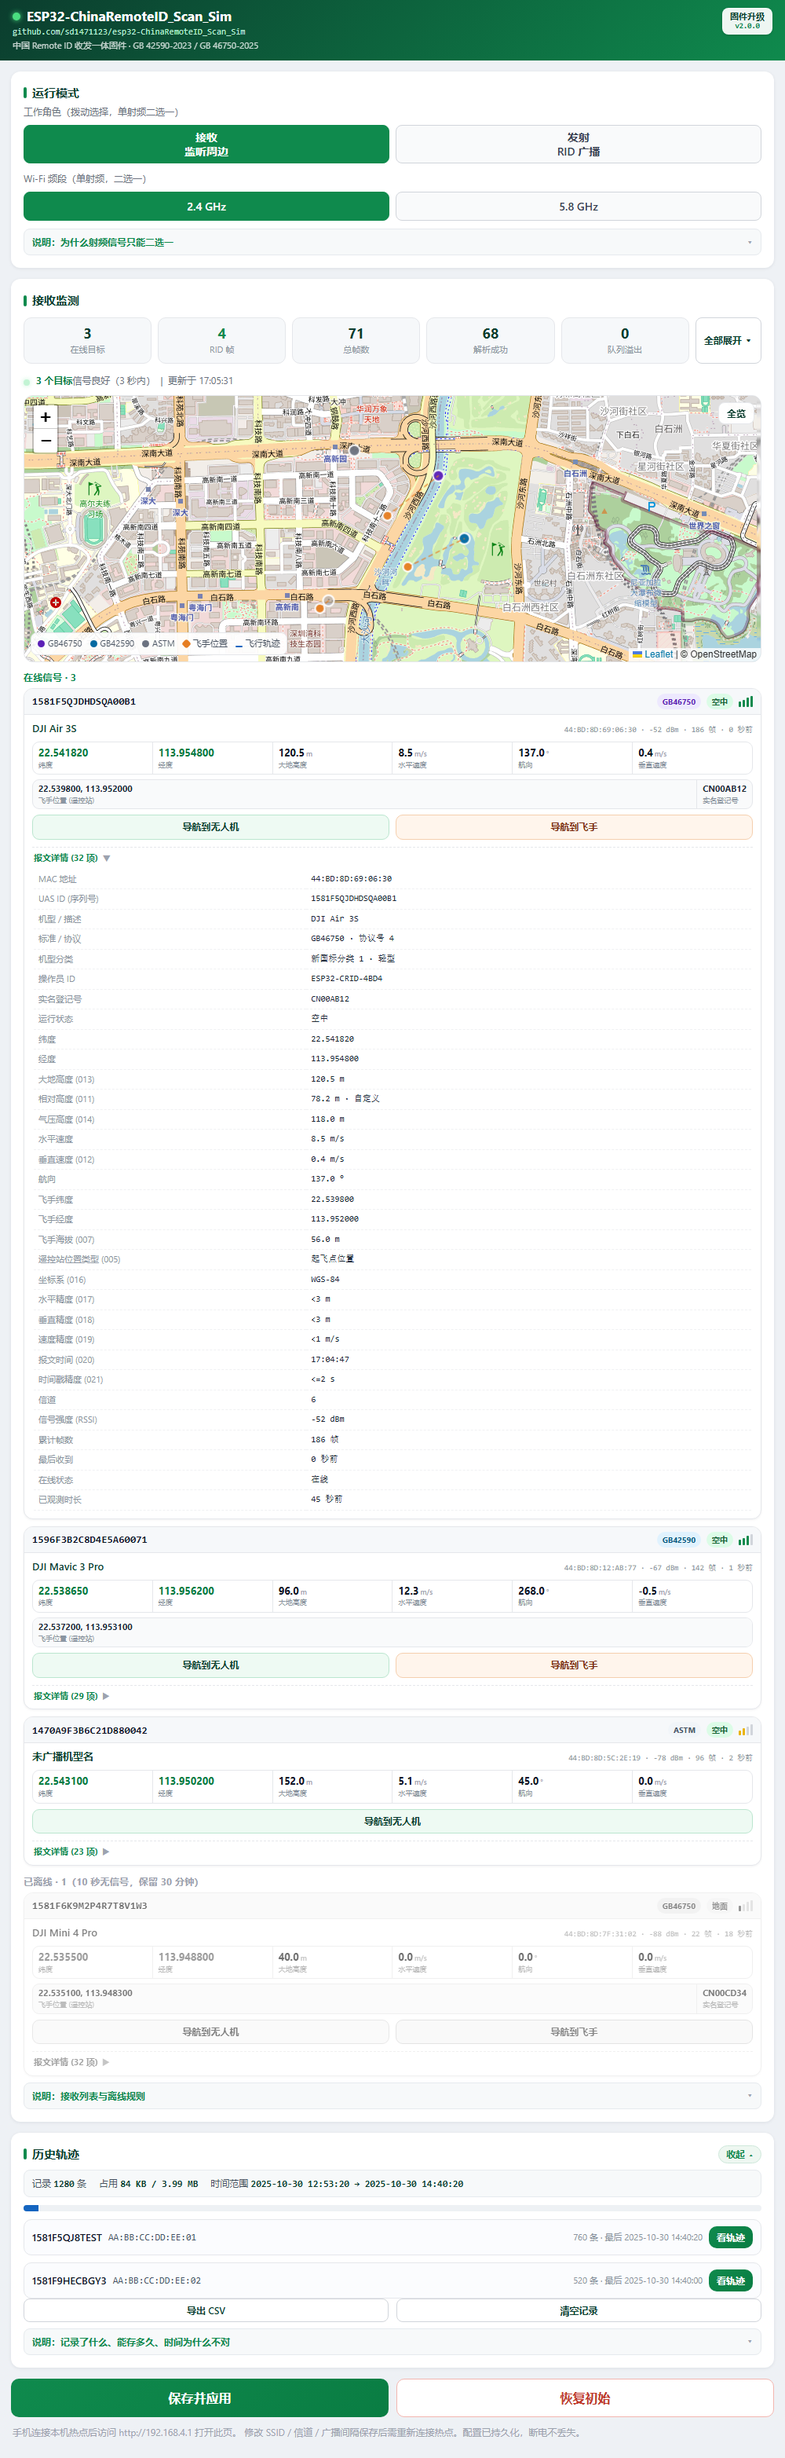
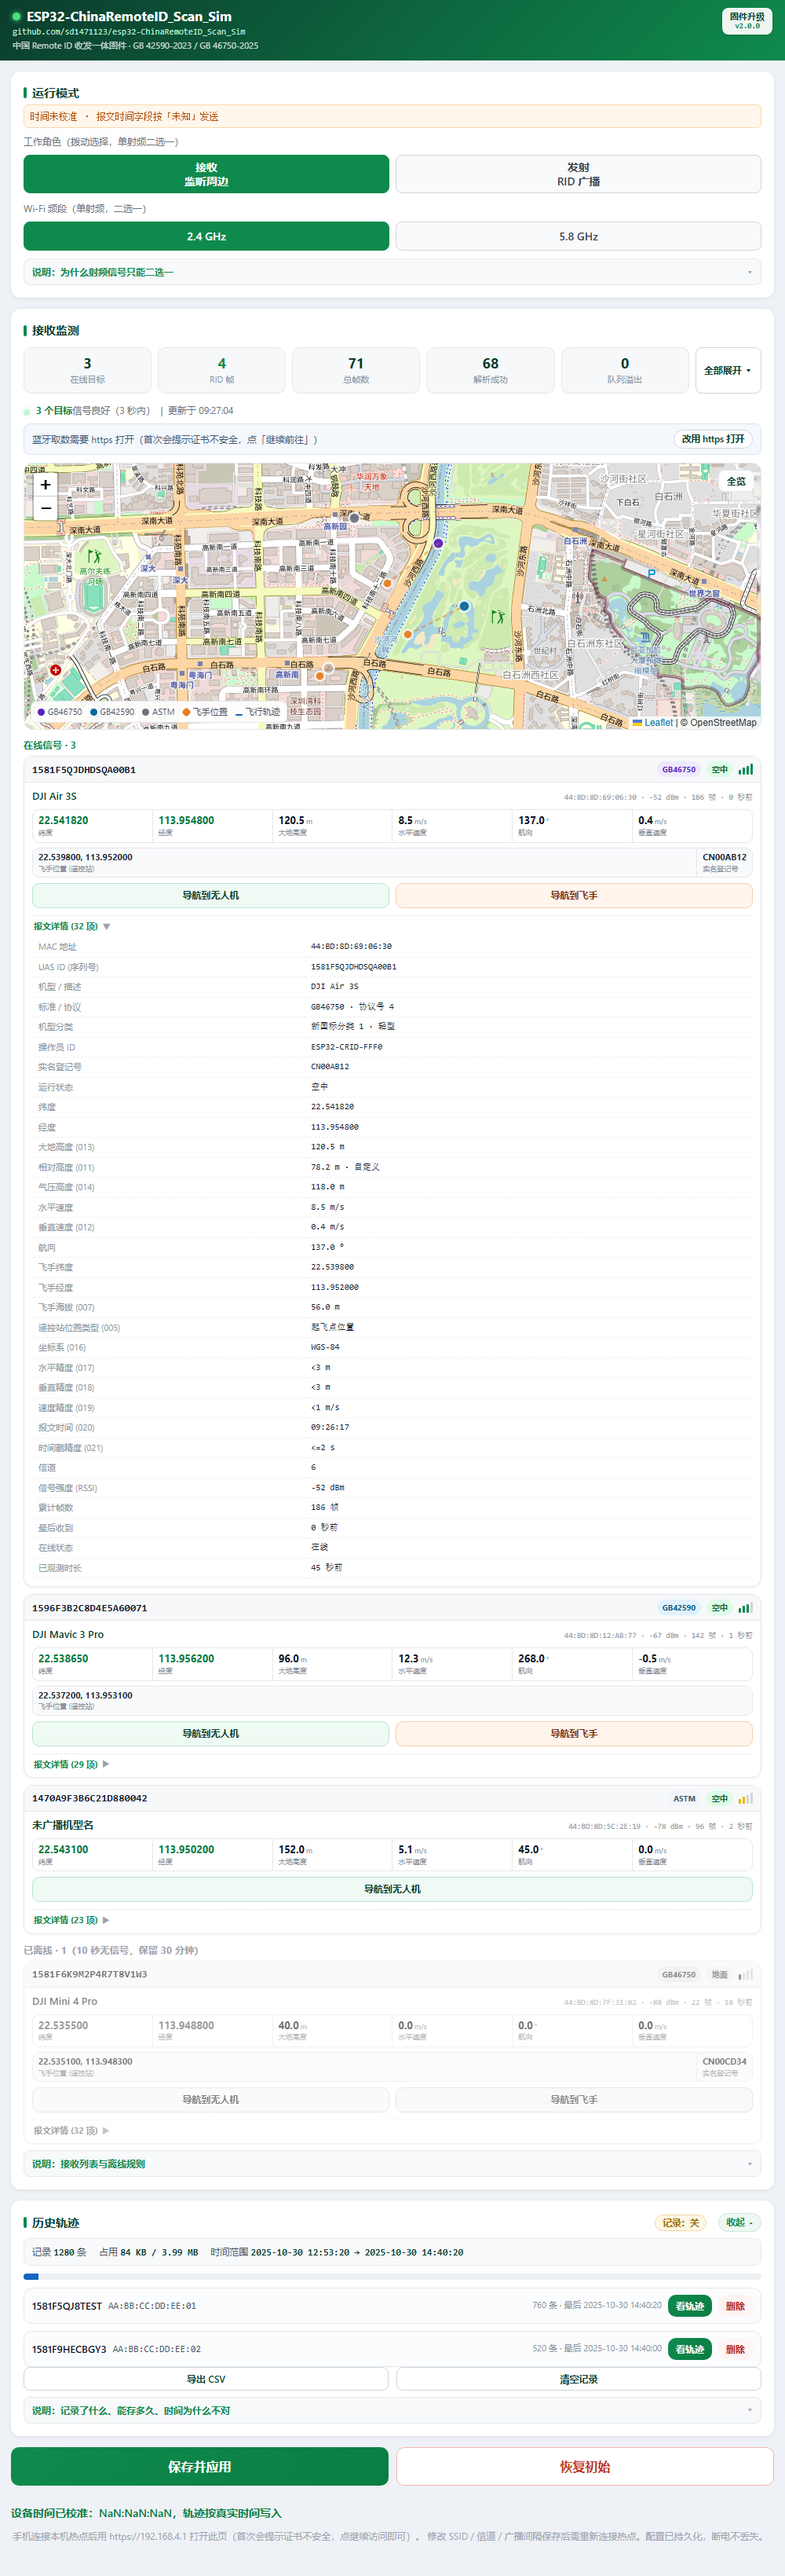
docs: 三张界面截图按 v2.0.0 重制
- 截图全部由 tools/gen_shots.py 渲染真实页面（mock /api/config、/api/status、
  /api/rx、/api/time 与轨迹数据，走页面自身的 fetch/轮询/地图代码），非 P 图
- 热点名 mock 为 C5 的 ESP32-CRID-FFF0，页头显示 V2.0.0，页脚为 https 新版文案
- 发射页 1160x2224：运行模式卡内可见橙色授时状态条，5.8 GHz + GB 46750 选中，
  两列高度 880/880 齐平，横向溢出 0
- 接收页 1000x3279：接收监测、真实瓦片地图与目标标记、蓝牙 https 提示
- 航线回放 1000x4952：轨迹环线 + 播放控制 + 航点表格，轨迹行含新增的「删除」按钮
- gen_shots.py：截图本身也加了「代理 → 直连 → 直连屏蔽外网」三轮退路，
  与高度探测一致；此前航线回放在走代理时 --screenshot 会挂到超时

diff --git a/tools/gen_shots.py b/tools/gen_shots.py
@@ -409,13 +409,25 @@ def shoot(port, mode, out_name, height=None, width=1160, query=''):
             print('    !! 跳过 %s（无法确定高度）' % out_name)
             return
         print('    页面高度 = %d px' % height)
-    cmd = _edge_base(profile, width, height) + [
-        '--virtual-time-budget=25000',
-        '--screenshot=' + out,
-        'http://127.0.0.1:%d/%s' % (port, query),
-    ]
     print('>>> %s -> %s  (%dx%d)' % (mode, out, width, height))
-    subprocess.run(cmd, check=False, timeout=180)
+    # 三轮，与高度探测同一套退路：走代理 → 直连 → 直连且屏蔽外网。
+    # 航线回放要等 Leaflet 与瓦片，走代理时个别请求会挂住，--screenshot 迟迟不退出；
+    # 后两轮拉不到瓦片会退回内置离线网格，图照样能出。
+    for use_proxy, budget, tmo, extra in ((True, 25000, 180, []),
+                                          (False, 12000, 150, []),
+                                          (False, 12000, 150,
+                                           ['--host-resolver-rules=MAP * 127.0.0.1'])):
+        cmd = _edge_base(profile, width, height, use_proxy) + extra + [
+            '--virtual-time-budget=%d' % budget,
+            '--screenshot=' + out,
+            'http://127.0.0.1:%d/%s' % (port, query),
+        ]
+        try:
+            subprocess.run(cmd, check=False, timeout=tmo)
+            break
+        except subprocess.TimeoutExpired:
+            print('    ! 截图超时（%s，%ds）→ 重试' % (
+                ('走代理' if use_proxy else '直连') + ('+屏蔽外网' if extra else ''), tmo))
     if os.path.exists(out):
         print('    %d bytes' % os.path.getsize(out))
     else:
